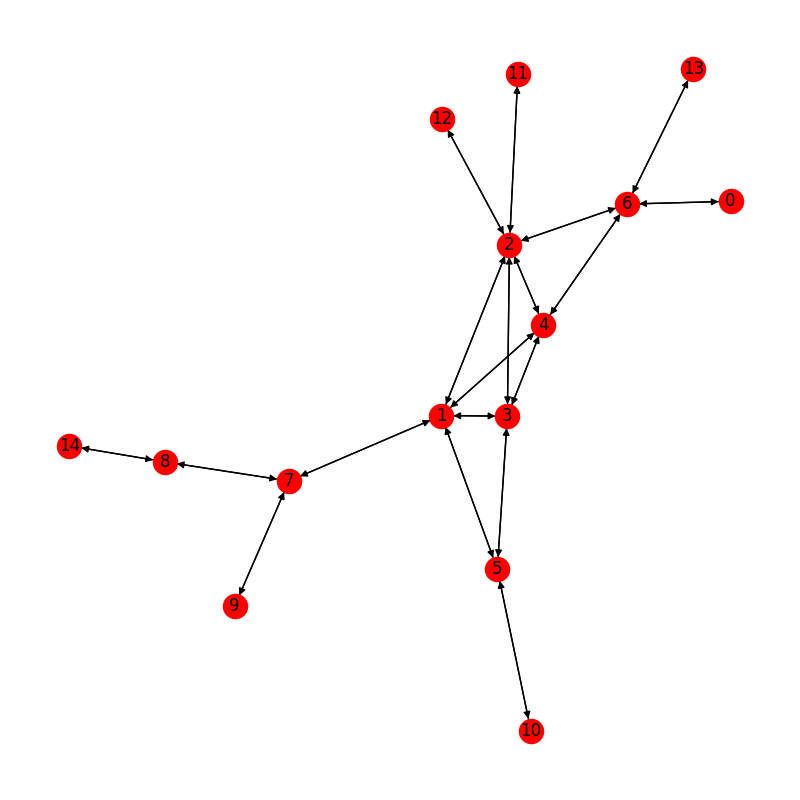
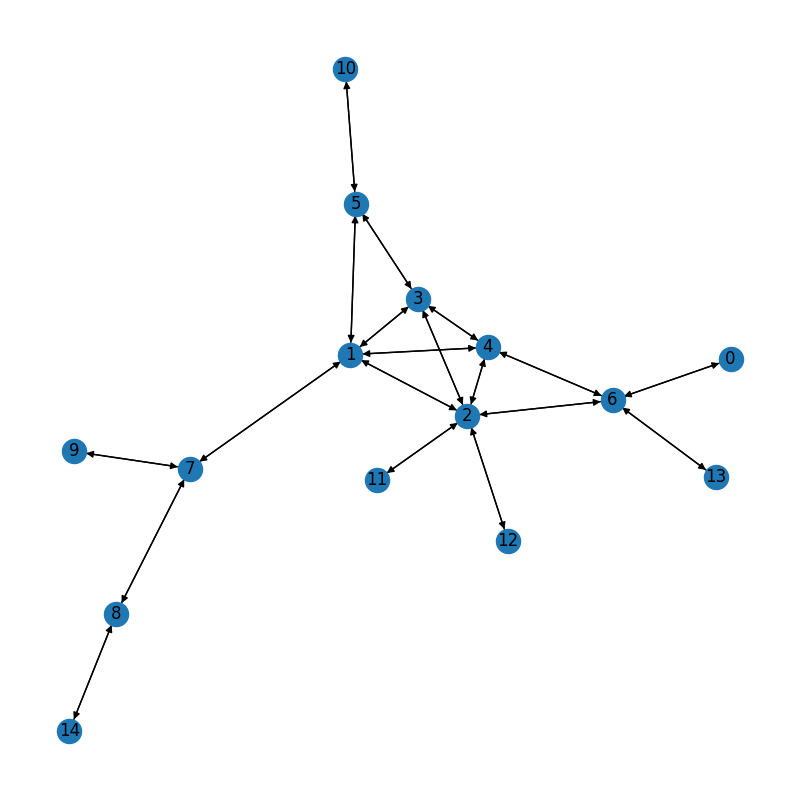
Correct application help and docs

diff --git a/kcdapp.py b/kcdapp.py
@@ -74,7 +74,7 @@ if __name__ == '__main__':
 
     parser.set_defaults(mode="numpy")
 
-    parser.add_argument('--draw', dest='draw', action="store_true", help=("Draw the graph to a file in the same "
+    parser.add_argument('--draw', dest='draw', action="store_true", help=("Draw the graph (from a txt input) to a file in the same."
                                                                           "path as input with extension .png."))
 
     try:

diff --git a/README.md b/README.md
@@ -1,5 +1,8 @@
 # VETGA: Vectorized Toolkit for Graph Analytics
 
+[![License](https://img.shields.io/badge/License-BSD%203--Clause-blue.svg)](https://opensource.org/licenses/BSD-3-Clause)
+
+
 [![Python 3.7](https://img.shields.io/badge/python-3.7-blue.svg)](https://www.python.org/downloads/release/python-370/)
 
 
@@ -19,11 +22,11 @@ For GPU Version pyTorch should be compiled using following compilers:
 * Numpy 1.18
 
 Other 3rd party libraries used in utility class are:
-* networkx
-* matplotlib
+* h5py
 * tqdm
 * requests
-* h5py
+* networkx
+* matplotlib
 
 ## Instructions to prepare GPU version of algorithim using Virtual Environment:
 
@@ -35,7 +38,7 @@ Other 3rd party libraries used in utility class are:
 
 ## Dataset files
 
-Graph data could be provided in edge list and the accepted formats are txt, npz, h5, gz. The algorithm is capable of reading files from a local disk or Google drive.
+Graph data could be provided in edge list and the accepted formats are txt, npz, h5, mtx. The application is capable of reading files from a local disk or Google drive, if the provided file is compressed by zip or gz it will be extracted automatically.
 
 Text files are the most common used format but very slow to read. It is recommended to use HDF5 as they are the best way to store and read datasets fast and there is no limitation for size (There is a 2GB limitation for npz files).
 
@@ -46,7 +49,7 @@ Some sample graphs could be found here:
 
 ## Running the algorithim
 
-* Run the algorithm
+* Running the algorithm
 	* Run the algorithm using a hdf5 file as an input, will print average K, max K and time spend.
 		* `python3 kcdapp.py ./LiveJournal.h5`
 	* Run the algorithm using a hdf5 file as an input, will also create a file that has coreness of nodes and a detail of profling the algorithm in a csv file.
@@ -56,13 +59,19 @@ Some sample graphs could be found here:
 	* Run the progrma with npz file as an input
 		* `python3 kcdapp.py "./data9_soc-LiveJournal.npz" "./data9_soc-LiveJournal-cores.txt" --mode numpy`
 		* `python3 kcdapp.py data9_soc-LiveJournal.npz data9_soc-LiveJournal-cores.txt --mode torch-gpu`
+* Converting and Pre-processing dataset files
+    * Download file from Google cloud and pre-process and save the local hdf5 dataset without running the algorithm
+        * `python3 kcdapp.py "https://drive.google.com/file/d/17L0twEBlaDjyDpR5dK-6_PJPIZP9EVwC/view?usp=sharing" --serialize-prepared --serialize=hdf5 --no-kcd`
+* Drawing the graph
+    * Draw the graph and save the image to a filename with png extension
+        * `python3 kcdapp.py ./datasets/sample_input_graph_01.txt --draw`
 
 ## Testing the algorithm correctness
 
 Following shell command will run the unit tests for the sample graphs in the datasets folder.
 
 ```shell
-python3 tests.py
+python3 tests.py 
 ```
 
 ## Contributing
@@ -114,8 +123,8 @@ optional arguments:
   -m {numpy,torch-cpu,torch-gpu}, --mode {numpy,torch-cpu,torch-gpu}
                         Perform choice to run the main algorithm on
                         Numpy/Torch(CPU/GPU).
-  --draw                Draw the graph to a file in the same path as input
-                        with extension .png.
+  --draw                Draw the graph (from a txt input) to a file in the
+                        same.path as input with extension .png.
 
 ```
 

diff --git a/datasets/README.md b/datasets/README.md
@@ -1,0 +1,43 @@
+# Sample graphs used for testing
+
+### Graph 01
+![Graph 01](./sample_input_graph_01.png)
+
+### Graph 02
+![Graph 02](./sample_input_graph_02.png)
+
+### Graph 03
+![Graph 03](./sample_input_graph_03.png)
+
+### Graph 04
+![Graph 04](./sample_input_graph_04.png)
+
+### Graph 05
+![Graph 05](./sample_input_graph_05.png)
+
+### Graph 06
+![Graph 06](./sample_input_graph_06.png)
+
+### Graph 07
+![Graph 07](./sample_input_graph_07.png)
+
+### Graph 08
+![Graph 08](./sample_input_graph_08.png)
+
+### Graph 09
+![Graph 09](./sample_input_graph_09.png)
+
+### Graph 10
+![Graph 10](./sample_input_graph_10.png)
+
+### Graph 11
+![Graph 11](./sample_input_graph_11.png)
+
+### Graph 12
+![Graph 12](./sample_input_graph_12.png)
+
+### Graph 13
+![Graph 13](./sample_input_graph_13.png)
+
+### Graph 14
+![Graph 14](./sample_input_graph_14.png)
